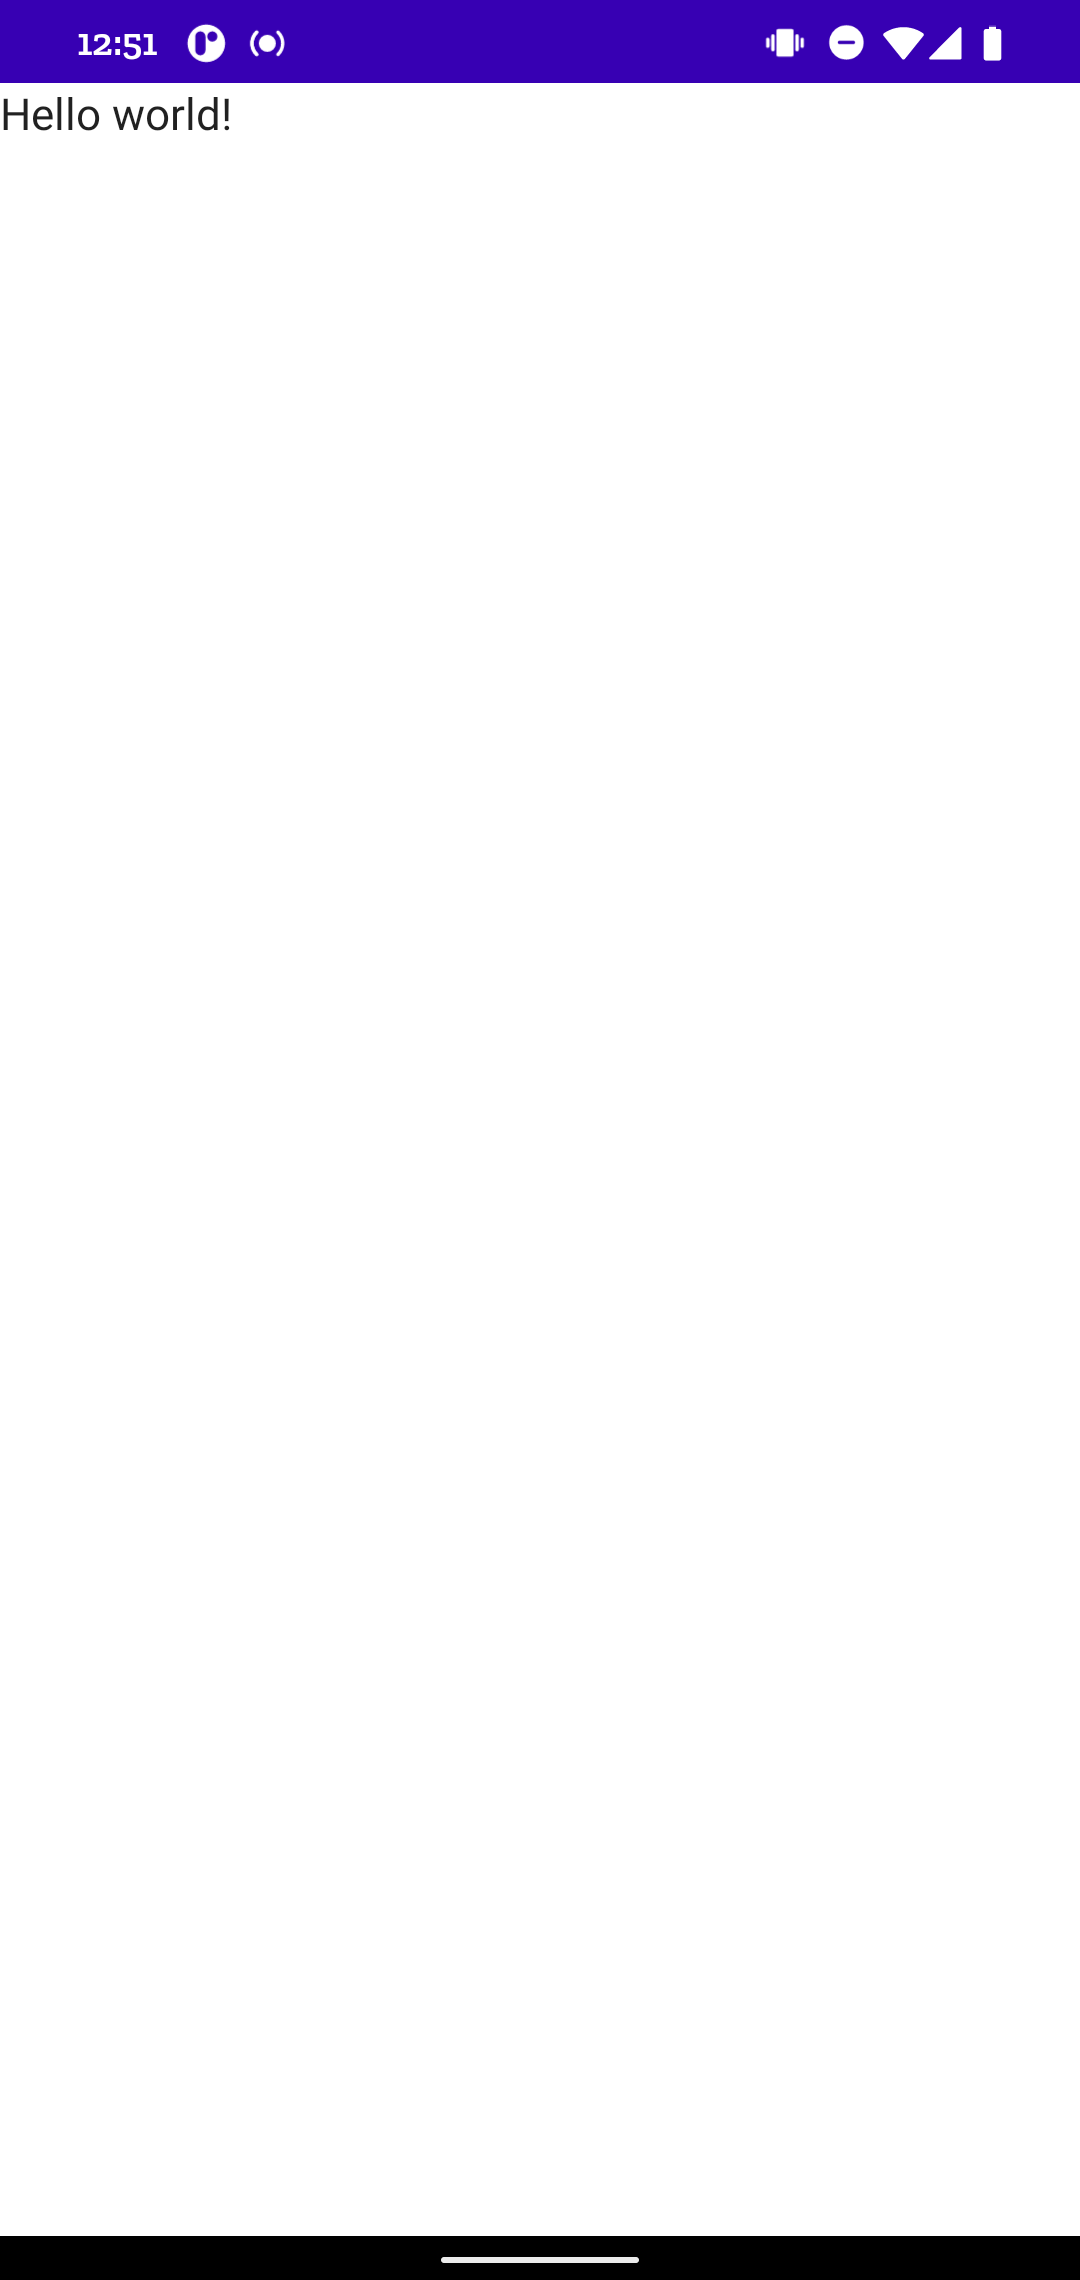
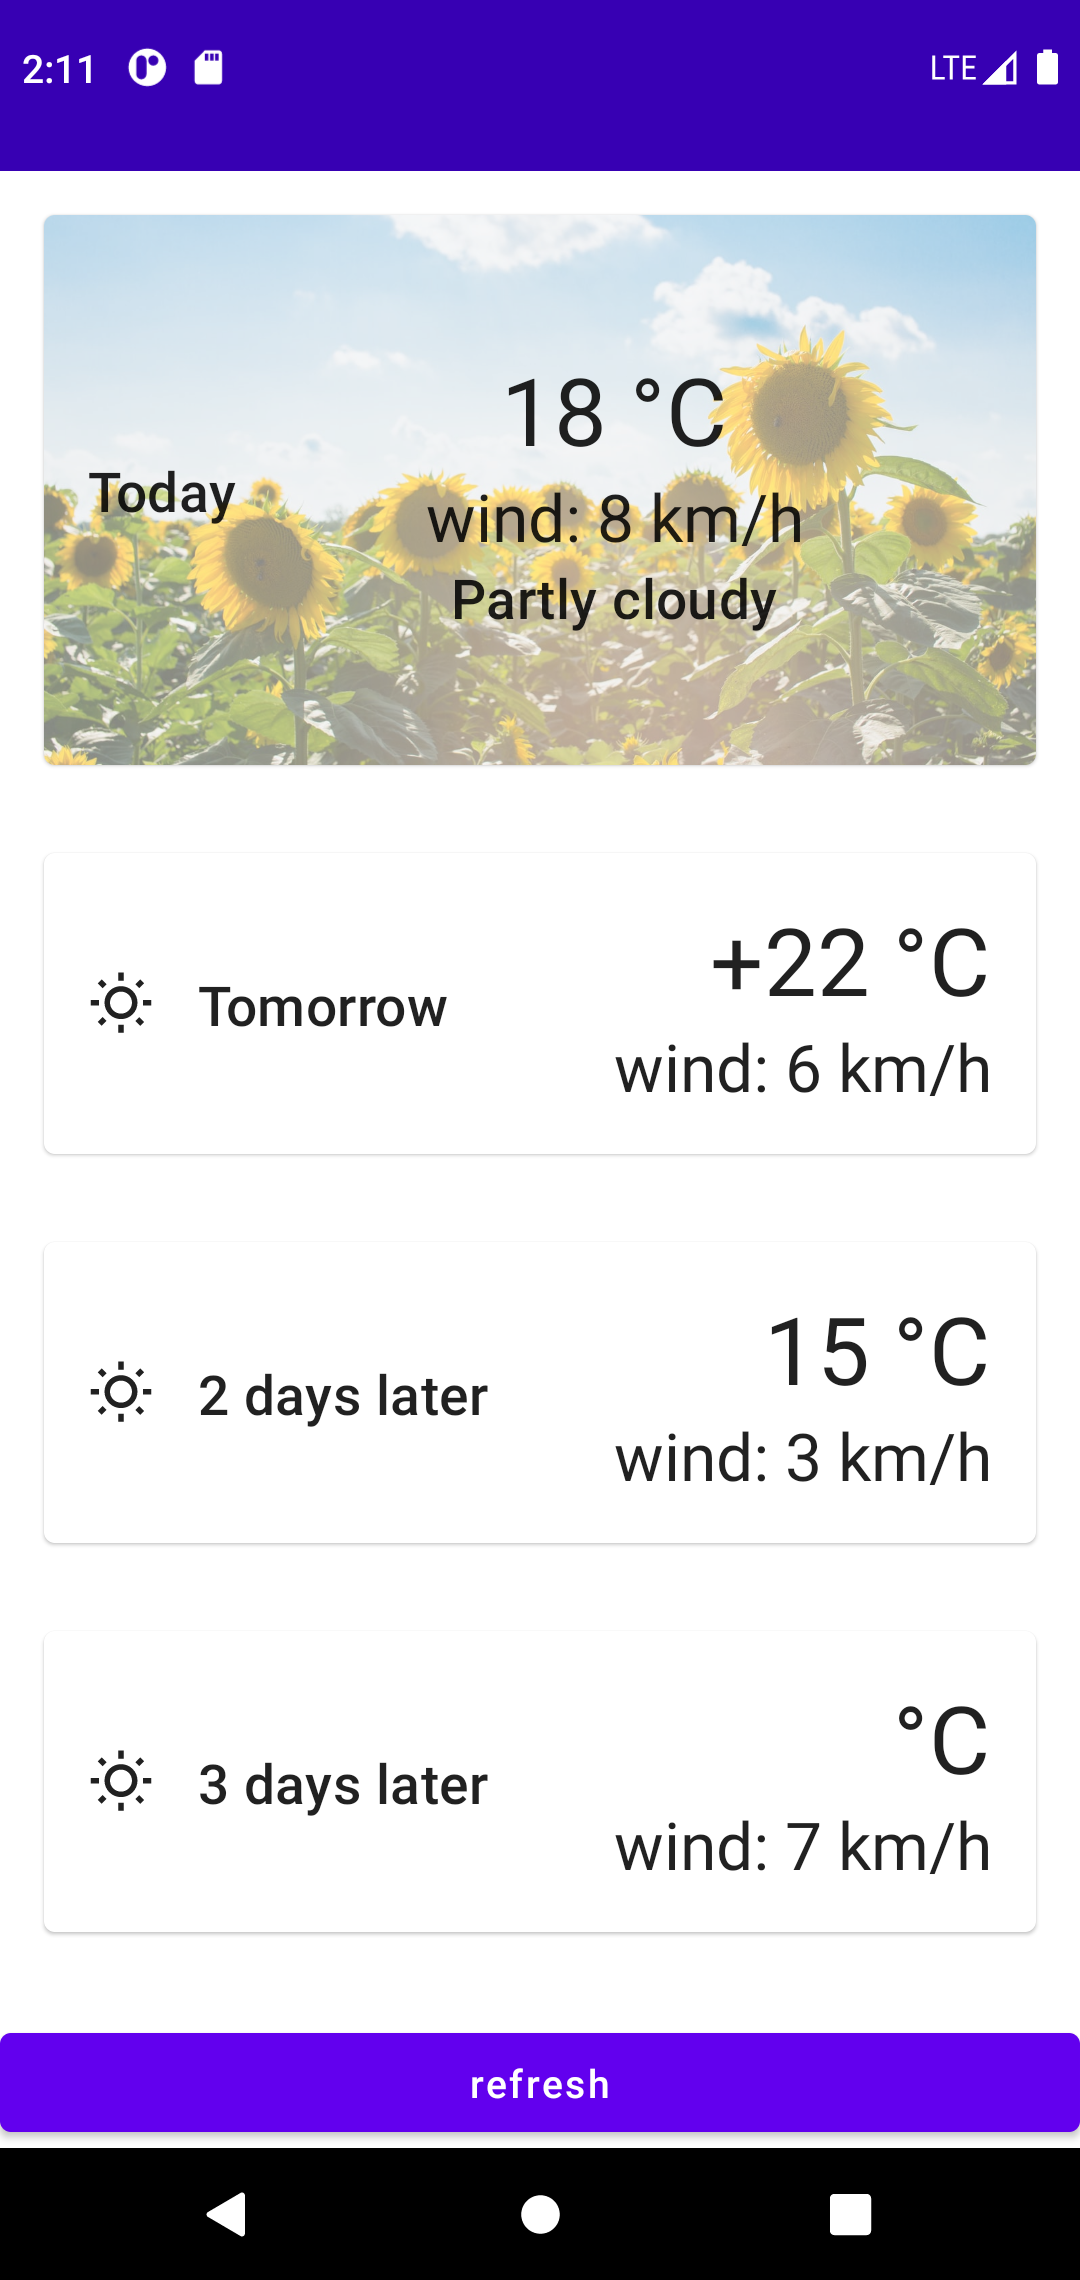
simple weather app ui

diff --git a/app/src/main/java/com/example/androiddevchallenge/MainActivity.kt b/app/src/main/java/com/example/androiddevchallenge/MainActivity.kt
@@ -19,14 +19,25 @@ import android.os.Bundle
 import androidx.activity.compose.setContent
 import androidx.activity.viewModels
 import androidx.appcompat.app.AppCompatActivity
-import androidx.compose.foundation.layout.Column
-import androidx.compose.material.Button
-import androidx.compose.material.MaterialTheme
-import androidx.compose.material.Surface
-import androidx.compose.material.Text
+import androidx.compose.foundation.Image
+import androidx.compose.foundation.layout.*
+import androidx.compose.foundation.lazy.LazyColumn
+import androidx.compose.foundation.lazy.items
+import androidx.compose.material.*
+import androidx.compose.material.icons.Icons
+import androidx.compose.material.icons.outlined.WbSunny
 import androidx.compose.runtime.Composable
 import androidx.compose.runtime.collectAsState
+import androidx.compose.ui.Alignment
+import androidx.compose.ui.Modifier
+import androidx.compose.ui.layout.ContentScale
+import androidx.compose.ui.platform.LocalContext
+import androidx.compose.ui.res.stringResource
 import androidx.compose.ui.tooling.preview.Preview
+import androidx.compose.ui.unit.dp
+import coil.compose.rememberImagePainter
+import com.example.androiddevchallenge.model.Forecast
+import com.example.androiddevchallenge.model.WeatherResponse
 import com.example.androiddevchallenge.ui.theme.MyTheme
 import dagger.hilt.android.AndroidEntryPoint
 
@@ -50,15 +61,120 @@ class MainActivity : AppCompatActivity() {
 
 // Start building your app here!
 @Composable
-fun MyApp(state: UiState = UiState(), onGetClick: () -> Unit = {}) {
+fun MyApp(state: UiState = UiState(), refreshAction: () -> Unit = {}) {
     Surface(color = MaterialTheme.colors.background) {
-        Column() {
-            Text(text = state.temperature)
-            Button(onClick = onGetClick) {
-                Text(text = "Click Me")
+        Box(modifier = Modifier.fillMaxSize()) {
+            if (state.isLoading) {
+                CircularProgressIndicator(modifier = Modifier.align(Alignment.Center))
+            } else {
+                if (state.weatherResponse != null) {
+                    Column {
+                        TodayWeather(state.weatherResponse)
+                        LazyColumn {
+                            items(state.weatherResponse.forecast) {
+                                ForecastItem(it)
+                            }
+                        }
+                    }
+                } else {
+                    Text(text = stringResource(R.string.error_message))
+                }
+            }
+            Button(
+                modifier = Modifier.fillMaxWidth().align(Alignment.BottomCenter),
+                onClick = refreshAction
+            ) {
+                Text(text = stringResource(R.string.refresh))
             }
         }
 
+    }
+}
+
+@Composable
+fun TodayWeather(weatherResponse: WeatherResponse) {
+    Card(modifier = Modifier.padding(16.dp).height(200.dp)) {
+        Image(
+            painter = rememberImagePainter("https://images.unsplash.com/photo-1533324268742-60b233802eef?ixlib=rb-1.2.1&ixid=MnwxMjA3fDB8MHxwaG90by1wYWdlfHx8fGVufDB8fHx8&auto=format&fit=crop&w=1470&q=80"),
+            contentDescription = null,
+            modifier = Modifier.fillMaxSize(),
+            contentScale = ContentScale.Crop,
+            alpha = 0.5f
+        )
+        Row(
+            modifier = Modifier.fillMaxSize().padding(16.dp),
+            verticalAlignment = Alignment.CenterVertically
+        ) {
+            Text(
+                modifier = Modifier.wrapContentWidth(),
+                text = stringResource(R.string.today),
+                style = MaterialTheme.typography.h6
+            )
+            Column(
+                modifier = Modifier.fillMaxSize(),
+                horizontalAlignment = Alignment.CenterHorizontally,
+                verticalArrangement = Arrangement.Center
+            ) {
+                Text(
+                    modifier = Modifier.wrapContentSize(),
+                    text = weatherResponse.temperature,
+                    style = MaterialTheme.typography.h4
+                )
+                Text(
+                    modifier = Modifier.wrapContentSize(),
+                    text = stringResource(R.string.wind, weatherResponse.wind),
+                    style = MaterialTheme.typography.h5
+                )
+                Text(
+                    modifier = Modifier.wrapContentSize(),
+                    text = weatherResponse.description,
+                    style = MaterialTheme.typography.h6
+                )
+            }
+        }
+
+    }
+
+
+}
+
+@Composable
+fun ForecastItem(forecast: Forecast) {
+    Card(modifier = Modifier.fillMaxWidth().padding(16.dp)) {
+        Row(modifier = Modifier.padding(16.dp), verticalAlignment = Alignment.CenterVertically) {
+            Icon(Icons.Outlined.WbSunny, contentDescription = "Localized description")
+            Text(
+                modifier = Modifier.padding(16.dp).wrapContentWidth(),
+                text = getDayString(forecast.day),
+                style = MaterialTheme.typography.h6
+            )
+            Column(modifier = Modifier.fillMaxWidth(), horizontalAlignment = Alignment.End) {
+                Text(
+                    modifier = Modifier.wrapContentSize(),
+                    text = forecast.temperature,
+                    style = MaterialTheme.typography.h4
+                )
+                Text(
+                    modifier = Modifier.wrapContentSize(),
+                    text = stringResource(R.string.wind, forecast.wind),
+                    style = MaterialTheme.typography.h5
+                )
+            }
+
+        }
+
+    }
+
+}
+
+@Composable
+fun getDayString(day: Int): String {
+    val resources = LocalContext.current.resources
+    return when (day) {
+        1 -> resources.getString(R.string.tomorrow)
+        2 -> resources.getString(R.string.days_later, day)
+        3 -> resources.getString(R.string.days_later, day)
+        else -> resources.getString(R.string.future)
     }
 }
 

diff --git a/app/src/main/java/com/example/androiddevchallenge/MainViewModel.kt b/app/src/main/java/com/example/androiddevchallenge/MainViewModel.kt
@@ -2,6 +2,7 @@ package com.example.androiddevchallenge
 
 import androidx.lifecycle.ViewModel
 import androidx.lifecycle.viewModelScope
+import com.example.androiddevchallenge.model.WeatherResponse
 import dagger.hilt.android.lifecycle.HiltViewModel
 import kotlinx.coroutines.flow.MutableStateFlow
 import kotlinx.coroutines.flow.StateFlow
@@ -9,26 +10,31 @@ import kotlinx.coroutines.launch
 import javax.inject.Inject
 
 data class UiState(
-    val temperature: String = "0"
+    val isLoading: Boolean = true,
+    val weatherResponse: WeatherResponse? = null,
 )
 
 @HiltViewModel
 class MainViewModel @Inject constructor(
     private val repository: WeatherRepository
 ) : ViewModel() {
-    init {
-
-    }
-
     private val _state: MutableStateFlow<UiState> = MutableStateFlow(UiState())
     val state: StateFlow<UiState> = _state
 
+    init {
+        getWeather()
+    }
+
     fun getWeather() {
+        _state.value = _state.value.copy(isLoading = true)
+        updateState { copy(isLoading = true) }
         viewModelScope.launch {
             val result = repository.getWeather("Xi'an")
-            _state.value = _state.value.copy(
-                temperature = result.temperature
-            )
+            updateState { copy(isLoading = false, weatherResponse = result) }
         }
+    }
+
+    fun updateState(block: UiState.() -> UiState) {
+        _state.value = _state.value.block()
     }
 }

diff --git a/app/src/main/java/com/example/androiddevchallenge/WeatherRepository.kt b/app/src/main/java/com/example/androiddevchallenge/WeatherRepository.kt
@@ -1,13 +1,14 @@
 package com.example.androiddevchallenge
 
-import com.example.androiddevchallenge.model.WeatherInfo
-import com.example.androiddevchallenge.model.toWeatherInfo
+import com.example.androiddevchallenge.model.WeatherResponse
 import javax.inject.Inject
 import javax.inject.Singleton
 
 @Singleton
 class WeatherRepository @Inject constructor(private val api: WeatherApi) {
-    suspend fun getWeather(city: String): WeatherInfo {
-        return api.getWeather(city).toWeatherInfo()
+    suspend fun getWeather(city: String): WeatherResponse? {
+        return kotlin.runCatching {
+            api.getWeather(city)
+        }.getOrNull()
     }
 }

diff --git a/app/src/main/java/com/example/androiddevchallenge/model/WeatherResponse.kt b/app/src/main/java/com/example/androiddevchallenge/model/WeatherResponse.kt
@@ -2,9 +2,14 @@ package com.example.androiddevchallenge.model
 
 
 data class WeatherResponse(
-    val day: Int = 0,
     val temperature: String,
     val wind: String,
     val description: String,
-    val forecast: List<WeatherResponse>
+    val forecast: List<Forecast>
+)
+
+data class Forecast(
+    val day: Int = 0,
+    val temperature: String,
+    val wind: String,
 )

diff --git a/app/src/test/java/com/example/androiddevchallenge/MainViewModelTest.kt b/app/src/test/java/com/example/androiddevchallenge/MainViewModelTest.kt
@@ -1,6 +1,5 @@
 package com.example.androiddevchallenge
 
-import com.example.androiddevchallenge.model.WeatherInfo
 import com.google.common.truth.Truth.assertThat
 import io.mockk.coEvery
 import io.mockk.mockk

diff --git a/README.md b/README.md
@@ -1,4 +1,5 @@
 # Template repository
+![screenshot_1](./results/screenshot_1.png)
 
 Template repository for the Jetpack Compose [#AndroidDevChallenge](https://developer.android.com/dev-challenge).
 
